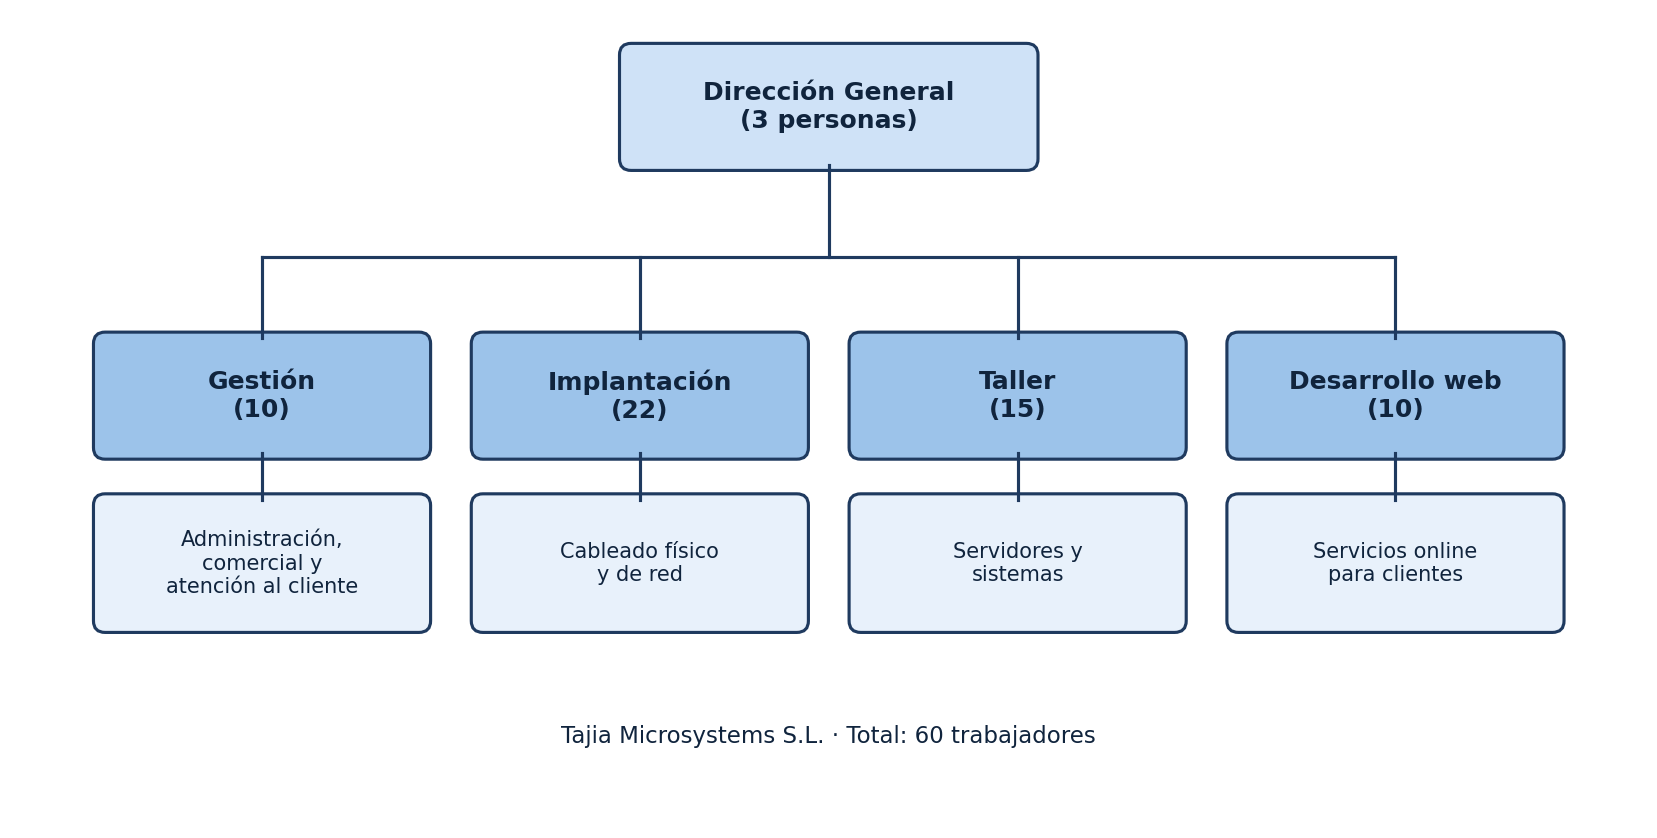
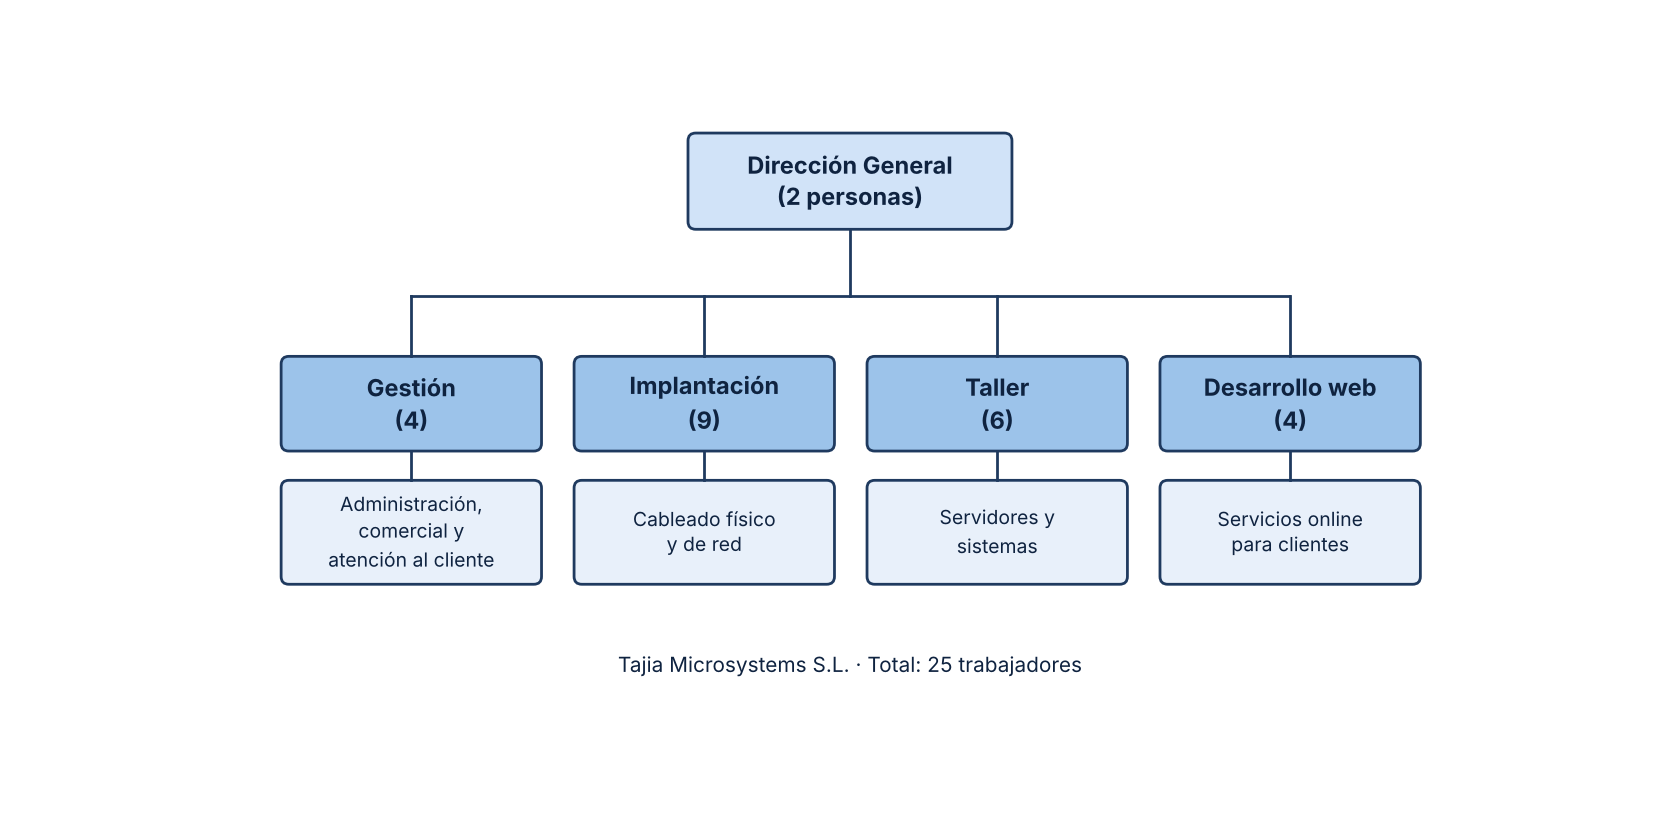
Bloque 1 actualizado

Changed region(s): [[0.0308, 0.0305, 0.9541, 0.7622], [0.3386, 0.8537, 0.6771, 0.8841], [0.3693, 0.7927, 0.6463, 0.8232]]

diff --git a/docs/sprint-1/02-organización.md b/docs/sprint-1/02-organización.md
@@ -1,44 +1,44 @@
 # Departamentos y estructura organizativa
- 
+
 ## Departamentos principales
- 
-Tajia Microsystems S.L. tiene unos 60 trabajadores repartidos en una dirección y cuatro departamentos: Gestión, Implantación, Taller y Desarrollo web.
- 
+
+Tajia Microsystems S.L. tiene 25 trabajadores repartidos en una dirección y cuatro departamentos: Gestión, Implantación, Taller y Desarrollo web.
+
 | Departamento | Nº de trabajadores |
 |--------------|--------------------|
-| Dirección General | 3 |
-| Gestión | 10 |
-| Implantación | 22 |
-| Taller | 15 |
-| Desarrollo web | 10 |
-| **Total** | **60** |
- 
+| Dirección General | 2 |
+| Gestión | 4 |
+| Implantación | 9 |
+| Taller | 6 |
+| Desarrollo web | 4 |
+| **Total** | **25** |
+
 ## Funciones y responsabilidades de cada departamento
- 
+
 - **Dirección General:** decide la estrategia de la empresa, coordina a todos los departamentos y se encarga de las relaciones con los clientes grandes y los proveedores.
 - **Gestión:** lleva la administración, la contabilidad, los pedidos y las facturas. También organiza las citas con los clientes y les atiende, dando prioridad a las instalaciones más grandes.
 - **Implantación:** instala en casa del cliente el cableado físico y de red (cables, tomas, armarios de comunicaciones y equipos de red) y comprueba que todo funciona.
 - **Taller:** prepara y configura los servidores y los sistemas operativos antes de la instalación, repara equipos y se encarga del mantenimiento y la seguridad de los sistemas.
 - **Desarrollo web:** crea y mantiene las páginas web y los servicios online que la empresa ofrece a sus clientes a través de Internet.
+
 ## Puestos de trabajo y funciones principales
- 
+
 | Departamento | Puesto | Funciones principales |
 |--------------|--------|-----------------------|
 | Dirección | Director/a general (1) | Dirigir la empresa y tomar las decisiones importantes |
-| Dirección | Director/a técnico (1) | Coordinar los trabajos de Implantación, Taller y Desarrollo web |
-| Dirección | Responsable de calidad y seguridad (1) | Vigilar que el trabajo cumpla los estándares de calidad y seguridad |
+| Dirección | Director/a técnico y de calidad (1) | Coordinar Implantación, Taller y Desarrollo web y vigilar la calidad y la seguridad |
 | Gestión | Responsable de administración (1) | Contabilidad, facturas y pagos |
-| Gestión | Comercial y atención al cliente (6) | Atender a los clientes, dar presupuestos y gestionar las citas |
-| Gestión | Auxiliar administrativo (3) | Pedidos, compras y papeleo |
-| Implantación | Jefe/a de equipo (2) | Organizar las instalaciones y repartir el trabajo |
-| Implantación | Técnico/a de cableado y redes (20) | Tender cableado, montar tomas y armarios y configurar equipos de red |
-| Taller | Administrador/a de sistemas (6) | Configurar servidores y sistemas operativos |
-| Taller | Técnico/a de soporte (7) | Reparar equipos y atender incidencias |
-| Taller | Técnico/a de seguridad (2) | Proteger los sistemas y revisar las copias de seguridad |
+| Gestión | Comercial y atención al cliente (2) | Atender a los clientes, dar presupuestos y gestionar las citas |
+| Gestión | Auxiliar administrativo (1) | Pedidos, compras y papeleo |
+| Implantación | Jefe/a de equipo (1) | Organizar las instalaciones y repartir el trabajo |
+| Implantación | Técnico/a de cableado y redes (8) | Tender cableado, montar tomas y armarios y configurar equipos de red |
+| Taller | Administrador/a de sistemas (2) | Configurar servidores y sistemas operativos |
+| Taller | Técnico/a de soporte (3) | Reparar equipos y atender incidencias |
+| Taller | Técnico/a de seguridad (1) | Proteger los sistemas y revisar las copias de seguridad |
 | Desarrollo web | Jefe/a de proyecto (1) | Planificar los proyectos web y hablar con el cliente |
-| Desarrollo web | Desarrollador/a web (7) | Programar y mantener las webs y los servicios online |
-| Desarrollo web | Diseñador/a web (2) | Diseñar el aspecto de las páginas |
- 
+| Desarrollo web | Desarrollador/a web (2) | Programar y mantener las webs y los servicios online |
+| Desarrollo web | Diseñador/a web (1) | Diseñar el aspecto de las páginas |
+
 ## Organigrama de la empresa
- 
+
 ![Organigrama de Tajia Microsystems S.L.](../../img/organigrama.png)

diff --git a/docs/sprint-1/04-maquinari-programari.md b/docs/sprint-1/04-maquinari-programari.md
@@ -1,22 +1,21 @@
 # Relación de hardware y software
- 
+
 | Recurso | Departamento | Cantidad | Función |
 |---------|--------------|----------|---------|
-| Ordenador portátil | Dirección General | 3 | Tareas de dirección y reuniones |
-| Ordenador de sobremesa | Gestión | 10 | Tareas administrativas y atención al cliente |
-| Ordenador portátil | Implantación | 22 | Trabajo en casa del cliente |
-| Ordenador de sobremesa | Taller | 18 | Configuración de sistemas, reparaciones y pruebas |
-| Ordenador de sobremesa potente | Desarrollo web | 10 | Programación y diseño web |
+| Ordenador portátil | Dirección General | 2 | Tareas de dirección y reuniones |
+| Ordenador de sobremesa | Gestión | 4 | Tareas administrativas y atención al cliente |
+| Ordenador portátil | Implantación | 9 | Trabajo en casa del cliente |
+| Ordenador de sobremesa | Taller | 8 | Configuración de sistemas, reparaciones y pruebas |
+| Ordenador de sobremesa potente | Desarrollo web | 4 | Programación y diseño web |
 | Servidor | Sala de servidores | 5 | Dominio, ficheros y copias, web, base de datos y correo |
 | Router y firewall | Sala de servidores | 2 | Conectar a Internet y proteger la red |
-| Switch | Todos | 5 | Conectar ordenadores, impresoras y servidores |
-| Punto de acceso Wi-Fi | Todos | 6 | Dar cobertura Wi-Fi |
-| SAI | Sala de servidores | 2 | Evitar apagones de servidores y red |
-| Impresora multifunción de red | Todos | 5 | Imprimir, copiar y escanear |
-| Teléfono IP | Gestión y Dirección | 15 | Atención telefónica a clientes |
-| Sistema operativo | Todos | 68 | Funcionamiento de ordenadores y servidores |
-| Software ofimático y de gestión | Dirección y Gestión | 13 | Documentos, facturas y citas |
-| Software de redes y virtualización | Implantación y Taller | 37 | Configurar equipos, vigilar la red y probar sistemas |
-| Software de desarrollo web | Desarrollo web | 10 | Crear y mantener las webs de los clientes |
-| Antivirus y copias de seguridad | Todos | 68 | Proteger equipos y datos |
- 
+| Switch | Todos | 3 | Conectar ordenadores, impresoras y servidores |
+| Punto de acceso Wi-Fi | Todos | 2 | Dar cobertura Wi-Fi |
+| SAI | Sala de servidores | 1 | Evitar apagones de servidores y red |
+| Impresora multifunción de red | Todos | 3 | Imprimir, copiar y escanear |
+| Teléfono IP | Gestión y Dirección | 6 | Atención telefónica a clientes |
+| Sistema operativo | Todos | 32 | Funcionamiento de ordenadores y servidores |
+| Software ofimático y de gestión | Dirección y Gestión | 6 | Documentos, facturas y citas |
+| Software de redes y virtualización | Implantación y Taller | 17 | Configurar equipos, vigilar la red y probar sistemas |
+| Software de desarrollo web | Desarrollo web | 4 | Crear y mantener las webs de los clientes |
+| Antivirus y copias de seguridad | Todos | 32 | Proteger equipos y datos |

diff --git a/docs/sprint-1/03-recursos-tic.md b/docs/sprint-1/03-recursos-tic.md
@@ -1,31 +1,32 @@
 # Identificación de los recursos TIC
- 
+
 ## Ordenadores por departamento
- 
+
 | Departamento | Ordenadores |
 |--------------|-------------|
-| Dirección General | 3 portátiles |
-| Gestión | 10 sobremesa |
-| Implantación | 22 portátiles |
-| Taller | 18 sobremesa (15 + 3 para pruebas) |
-| Desarrollo web | 10 sobremesa potentes |
-| **Total** | **63** |
- 
+| Dirección General | 2 portátiles |
+| Gestión | 4 sobremesa |
+| Implantación | 9 portátiles |
+| Taller | 8 sobremesa (6 + 2 para pruebas) |
+| Desarrollo web | 4 sobremesa potentes |
+| **Total** | **27** |
+
 ## Servidores y funciones
- 
+
 - **Dominio y autenticación:** gestiona usuarios, permisos, DHCP y DNS.
 - **Ficheros y copias de seguridad:** guarda los documentos y hace las copias de seguridad.
 - **Web:** aloja los servicios online para los clientes.
 - **Base de datos y aplicaciones:** guarda los datos de clientes, citas y facturas.
 - **Correo:** gestiona el correo de la empresa.
+
 ## Dispositivos de red
- 
-1 router, 1 firewall, 1 switch principal, 4 switches de acceso, 6 puntos de acceso Wi-Fi y 2 SAI.
- 
+
+1 router, 1 firewall, 1 switch principal, 2 switches de acceso, 2 puntos de acceso Wi-Fi y 1 SAI.
+
 ## Impresoras y periféricos
- 
-5 impresoras multifunción, monitores, teclados y ratones, teléfonos IP, webcams y auriculares, y herramientas de comprobación de cableado para Implantación.
- 
+
+3 impresoras multifunción, monitores, teclados y ratones, teléfonos IP, webcams y auriculares, y herramientas de comprobación de cableado para Implantación.
+
 ## Justificación
- 
-Cada trabajador necesita un ordenador, y los de Implantación son portátiles porque trabajan en casa de los clientes. Usamos varios servidores para que, si uno falla, no se pare toda la empresa, y porque manejamos datos de clientes y ofrecemos servicios por Internet. Con 60 trabajadores hacen falta varios switches y puntos de acceso para tener buena cobertura, y el firewall y los SAI protegen la red y los equipos. Las impresoras, los teléfonos y las herramientas de cableado cubren el trabajo diario de cada departamento.
+
+Cada trabajador necesita un ordenador, y los de Implantación son portátiles porque trabajan en casa de los clientes. Usamos varios servidores para que, si uno falla, no se pare toda la empresa, y porque manejamos datos de clientes y ofrecemos servicios por Internet. Con 25 trabajadores son suficientes 2 switches de acceso y 2 puntos de acceso para tener buena cobertura, y el firewall y el SAI protegen la red y los equipos. Las impresoras, los teléfonos y las herramientas de cableado cubren el trabajo diario de cada departamento.
